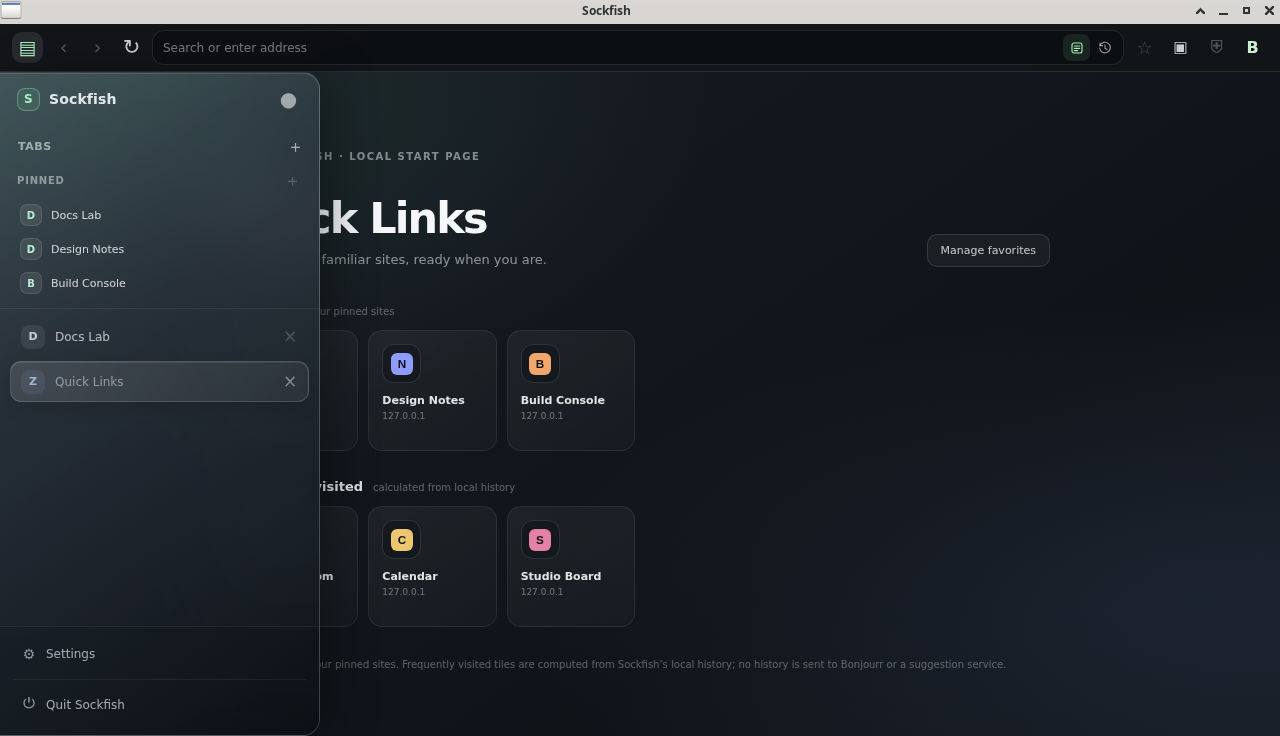
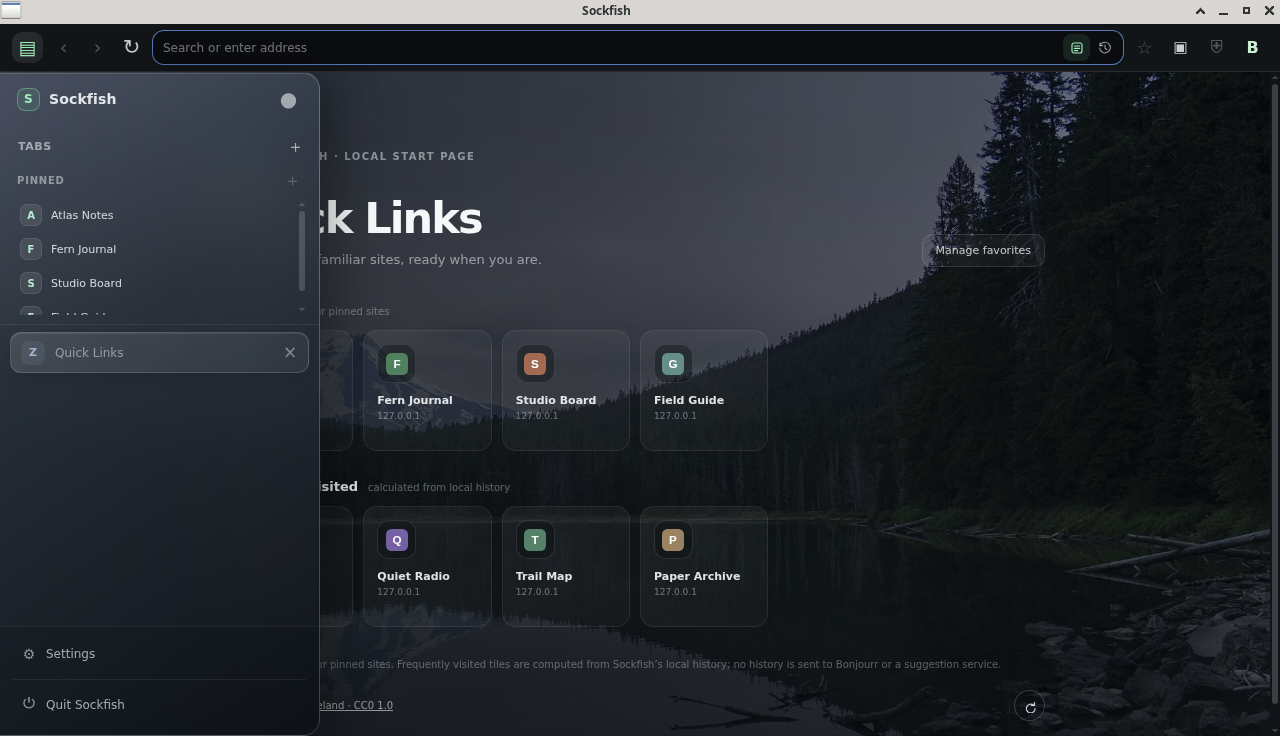
feat: add local rotating Quick Links backgrounds

diff --git a/src/renderer/src/views/Browser.tsx b/src/renderer/src/views/Browser.tsx
@@ -20,10 +20,45 @@ import { DEFAULT_SEARCH_ENGINE, getSearchHomepage, SEARCH_ENGINES, SOCKFISH_QUIC
 import { MAX_PINNED_SITES } from '../../../shared/persistence'
 import { buildAddressSuggestions } from '../../../shared/autocomplete'
 import { buildFrequentSites, toQuickLinkSite, type QuickLinkSite } from '../../../shared/quick-links'
+import {
+  getQuickLinkBackgroundIndex,
+  nextQuickLinkBackgroundIndex,
+  QUICK_LINK_BACKGROUND_ROTATION_MS
+} from '../../../shared/quick-links-backgrounds'
+import forestLake from '../assets/quick-links-backgrounds/forest-lake.webp'
+import mountainLake from '../assets/quick-links-backgrounds/tranquil-mountain-lake.webp'
+import waterfall from '../assets/quick-links-backgrounds/waterfall.webp'
+import lakeMountain from '../assets/quick-links-backgrounds/lake-mountain.webp'
 import './Browser.css'
 
 const DEFAULT_PROXY: BrowserProxySettings = { enabled: true, host: '127.0.0.1', port: 1080 }
 const BONJOURR_START_PAGE = 'https://online.bonjourr.fr/'
+const QUICK_LINK_BACKGROUNDS = [
+  {
+    src: forestLake,
+    title: 'Forest lake',
+    creator: 'Pixel.la Free Stock Photos',
+    sourceUrl: 'https://commons.wikimedia.org/wiki/File:Landscape-nature-forest-lake_(24300004076).jpg'
+  },
+  {
+    src: mountainLake,
+    title: 'Tranquil mountain lake',
+    creator: 'Andrew Spencer',
+    sourceUrl: 'https://commons.wikimedia.org/wiki/File:Tranquil_mountain_lake_(Unsplash).jpg'
+  },
+  {
+    src: waterfall,
+    title: 'Waterfall in Iceland',
+    creator: 'Robert Lukeman',
+    sourceUrl: 'https://commons.wikimedia.org/wiki/File:Idyllic_landscape_with_a_waterfall_(Unsplash).jpg'
+  },
+  {
+    src: lakeMountain,
+    title: 'Lake Mountain Landscape',
+    creator: 'Bonnie Moreland',
+    sourceUrl: 'https://commons.wikimedia.org/wiki/File:Lake_Mountain_Landscape.jpg'
+  }
+] as const
 const EMPTY_BROWSER: BrowserState = {
   url: BONJOURR_START_PAGE,
   title: 'Bonjourr',
@@ -170,6 +205,9 @@ export default function Browser(): React.JSX.Element {
   const [activeSuggestionIndex, setActiveSuggestionIndex] = useState(-1)
   const [searchEngine, setSearchEngine] = useState<SearchEngineId>(DEFAULT_SEARCH_ENGINE)
   const [newTabPage, setNewTabPage] = useState<NewTabPageId>('quick-links')
+  const [quickLinksBackgroundIndex, setQuickLinksBackgroundIndex] = useState(
+    () => getQuickLinkBackgroundIndex(Date.now(), QUICK_LINK_BACKGROUNDS.length)
+  )
   const [tabSleepMinutes, setTabSleepMinutes] = useState<TabSleepMinutes>(30)
   const [searchEngineLoaded, setSearchEngineLoaded] = useState(false)
   const [newTabMenuOpen, setNewTabMenuOpen] = useState(false)
@@ -193,6 +231,12 @@ export default function Browser(): React.JSX.Element {
   const [proxyMessage, setProxyMessage] = useState('')
   const [navigationError, setNavigationError] = useState('')
   const [proxyMessageIsError, setProxyMessageIsError] = useState(false)
+  useEffect(() => {
+    const rotationTimer = window.setInterval(() => {
+      setQuickLinksBackgroundIndex((index) => nextQuickLinkBackgroundIndex(index, QUICK_LINK_BACKGROUNDS.length))
+    }, QUICK_LINK_BACKGROUND_ROTATION_MS)
+    return () => window.clearInterval(rotationTimer)
+  }, [])
   const sidebarVisible = sidebarPinned || sidebarHovered || sidebarFocused || sidebarMode !== 'tabs'
   const addressSuggestions = useMemo(
     () => buildAddressSuggestions(address, pinnedSites, tabs, history),
@@ -201,6 +245,7 @@ export default function Browser(): React.JSX.Element {
   const favoriteQuickLinks = useMemo(() => pinnedSites.map(toQuickLinkSite).filter((site): site is QuickLinkSite => site !== null), [pinnedSites])
   const frequentQuickLinks = useMemo(() => buildFrequentSites(history, pinnedSites), [history, pinnedSites])
   const isQuickLinksTab = browser.url === SOCKFISH_QUICK_LINKS_URL
+  const quickLinksBackground = QUICK_LINK_BACKGROUNDS[quickLinksBackgroundIndex] ?? QUICK_LINK_BACKGROUNDS[0]!
   const activeOrigin = httpOrigin(browser.url)
   const currentOriginIsPinned = Boolean(activeOrigin && pinnedSites.some((site) => httpOrigin(site.url) === activeOrigin))
 
@@ -956,6 +1001,12 @@ export default function Browser(): React.JSX.Element {
           {sidebarMode === 'tabs' && !sidebarVisible && <div className="sidebar-reveal-edge" aria-hidden="true" onMouseEnter={revealSidebar} onMouseMove={revealSidebar} onMouseLeave={scheduleSidebarHide} />}
           {isQuickLinksTab && !SETTINGS_SECTIONS.some((section) => section.mode === sidebarMode) && (
             <section className="quick-links-page" aria-label="Sockfish Quick Links start page">
+              <div
+                key={quickLinksBackground.title}
+                className="quick-links-backdrop"
+                aria-hidden="true"
+                style={{ backgroundImage: `url("${quickLinksBackground.src}")` }}
+              />
               <div className="quick-links-content">
                 <div className="quick-links-eyebrow"><span className="quick-links-brand" aria-hidden="true">S</span><span>SOCKFISH · LOCAL START PAGE</span></div>
                 <header className="quick-links-header">
@@ -975,6 +1026,23 @@ export default function Browser(): React.JSX.Element {
                   ) : <p className="quick-links-empty">Sites you visit often will appear here. This list stays on this device.</p>}
                 </section>
                 <p className="quick-links-privacy">Favorites reuse your pinned sites. Frequently visited tiles are computed from Sockfish’s local history; no history is sent to Bonjourr or a suggestion service.</p>
+                <footer className="quick-links-background-footer">
+                  <a className="quick-links-photo-credit" href={quickLinksBackground.sourceUrl} target="_blank" rel="noreferrer">
+                    Photo: {quickLinksBackground.creator} · CC0 1.0
+                  </a>
+                  <button
+                    className="quick-links-next-background"
+                    type="button"
+                    title="Next background"
+                    aria-label="Show next background"
+                    onClick={() => setQuickLinksBackgroundIndex((index) => nextQuickLinkBackgroundIndex(index, QUICK_LINK_BACKGROUNDS.length))}
+                  >
+                    <svg viewBox="0 0 24 24" fill="none" stroke="currentColor" strokeWidth="1.8" strokeLinecap="round" strokeLinejoin="round" aria-hidden="true">
+                      <path d="M20 7v5h-5" />
+                      <path d="M19 12a7 7 0 1 0 2 4.9" />
+                    </svg>
+                  </button>
+                </footer>
               </div>
             </section>
           )}

diff --git a/src/renderer/src/views/Browser.css b/src/renderer/src/views/Browser.css
@@ -1890,20 +1890,45 @@
 
 /* Local start page: favorites are existing pins; frequent tiles are derived from local history. */
 .quick-links-page {
+  position: relative;
+  isolation: isolate;
   width: 100%;
   height: 100%;
   min-height: 0;
   overflow: auto;
   padding: clamp(28px, 6vw, 72px) clamp(20px, 6vw, 76px) 36px;
-  background:
-    radial-gradient(ellipse at 12% 5%, rgba(91, 173, 139, 0.14), transparent 35%),
-    radial-gradient(ellipse at 94% 80%, rgba(94, 125, 184, 0.12), transparent 40%),
-    linear-gradient(145deg, #171c22, #101419 68%, #14191f);
+  background: #101419;
   color: #f2f4f6;
   scrollbar-color: rgba(255, 255, 255, 0.18) transparent;
   scrollbar-width: thin;
 }
+.quick-links-page::before {
+  position: absolute;
+  z-index: -1;
+  inset: 0;
+  background:
+    linear-gradient(90deg, rgba(9, 13, 17, 0.82) 0%, rgba(9, 13, 17, 0.69) 46%, rgba(9, 13, 17, 0.43) 100%),
+    linear-gradient(0deg, rgba(9, 13, 17, 0.58) 0%, rgba(9, 13, 17, 0.08) 75%);
+  content: '';
+  pointer-events: none;
+}
+.quick-links-backdrop {
+  position: absolute;
+  z-index: -2;
+  inset: 0;
+  background-position: center;
+  background-repeat: no-repeat;
+  background-size: cover;
+  animation: quick-links-background-in 900ms ease-out both;
+  pointer-events: none;
+}
+@keyframes quick-links-background-in {
+  from { opacity: 0.55; }
+  to { opacity: 1; }
+}
 .quick-links-content {
+  position: relative;
+  z-index: 1;
   width: min(100%, 820px);
   margin: 0 auto;
 }
@@ -2064,6 +2089,47 @@
   font-size: 10px;
   line-height: 1.5;
 }
+.quick-links-background-footer {
+  display: flex;
+  align-items: center;
+  justify-content: space-between;
+  gap: 14px;
+  margin-top: 18px;
+}
+.quick-links-photo-credit {
+  overflow: hidden;
+  color: rgba(245, 247, 250, 0.57);
+  font-size: 10px;
+  text-overflow: ellipsis;
+  white-space: nowrap;
+}
+.quick-links-photo-credit:hover,
+.quick-links-photo-credit:focus-visible {
+  color: rgba(245, 247, 250, 0.88);
+}
+.quick-links-next-background {
+  display: inline-grid;
+  flex: 0 0 auto;
+  width: 31px;
+  height: 31px;
+  place-items: center;
+  border: 1px solid rgba(255, 255, 255, 0.18);
+  border-radius: 50%;
+  background: rgba(9, 13, 17, 0.42);
+  color: rgba(245, 247, 250, 0.84);
+  cursor: pointer;
+}
+.quick-links-next-background:hover,
+.quick-links-next-background:focus-visible {
+  border-color: rgba(126, 226, 168, 0.5);
+  background: rgba(9, 13, 17, 0.68);
+  color: #fff;
+  outline: 0;
+}
+.quick-links-next-background svg {
+  width: 15px;
+  height: 15px;
+}
 @media (max-width: 620px) {
   .quick-links-header {
     align-items: flex-start;
@@ -2081,10 +2147,16 @@
     min-height: 112px;
     padding: 11px;
   }
+  .quick-links-background-footer {
+    gap: 8px;
+  }
 }
 @media (prefers-reduced-motion: reduce) {
   .omnibox-action-button,
   .quick-link-tile {
     transition-duration: 0.01ms;
+  }
+  .quick-links-backdrop {
+    animation: none;
   }
 }

diff --git a/src/shared/quick-links-backgrounds.test.ts b/src/shared/quick-links-backgrounds.test.ts
@@ -1,0 +1,30 @@
+import test from 'node:test'
+import assert from 'node:assert/strict'
+import {
+  getQuickLinkBackgroundIndex,
+  nextQuickLinkBackgroundIndex,
+  QUICK_LINK_BACKGROUND_ROTATION_MS
+} from './quick-links-backgrounds.ts'
+
+test('rotates one locally bundled background every fifteen-minute slot and wraps', () => {
+  const rotation = QUICK_LINK_BACKGROUND_ROTATION_MS
+  assert.equal(getQuickLinkBackgroundIndex(0, 4), 0)
+  assert.equal(getQuickLinkBackgroundIndex(rotation - 1, 4), 0)
+  assert.equal(getQuickLinkBackgroundIndex(rotation, 4), 1)
+  assert.equal(getQuickLinkBackgroundIndex(rotation * 3, 4), 3)
+  assert.equal(getQuickLinkBackgroundIndex(rotation * 4, 4), 0)
+})
+
+test('manual next-background navigation wraps and normalizes its index', () => {
+  assert.equal(nextQuickLinkBackgroundIndex(0, 4), 1)
+  assert.equal(nextQuickLinkBackgroundIndex(3, 4), 0)
+  assert.equal(nextQuickLinkBackgroundIndex(-1, 4), 0)
+  assert.equal(nextQuickLinkBackgroundIndex(Number.NaN, 4), 1)
+})
+
+test('invalid time or image counts safely select the first background', () => {
+  assert.equal(getQuickLinkBackgroundIndex(Number.NaN, 4), 0)
+  assert.equal(getQuickLinkBackgroundIndex(0, 0), 0)
+  assert.equal(getQuickLinkBackgroundIndex(0, -1), 0)
+  assert.equal(nextQuickLinkBackgroundIndex(0, 0), 0)
+})

diff --git a/src/shared/quick-links-backgrounds.ts b/src/shared/quick-links-backgrounds.ts
@@ -1,0 +1,14 @@
+export const QUICK_LINK_BACKGROUND_ROTATION_MS = 15 * 60 * 1000
+
+export function getQuickLinkBackgroundIndex(timestampMs: number, imageCount: number): number {
+  if (!Number.isFinite(timestampMs) || !Number.isInteger(imageCount) || imageCount < 1) return 0
+  const rotationSlot = Math.floor(timestampMs / QUICK_LINK_BACKGROUND_ROTATION_MS)
+  return ((rotationSlot % imageCount) + imageCount) % imageCount
+}
+
+export function nextQuickLinkBackgroundIndex(currentIndex: number, imageCount: number): number {
+  if (!Number.isInteger(imageCount) || imageCount < 1) return 0
+  const current = Number.isInteger(currentIndex) ? currentIndex : 0
+  const normalized = ((current % imageCount) + imageCount) % imageCount
+  return (normalized + 1) % imageCount
+}

diff --git a/docs/browser-ui-overhaul.md b/docs/browser-ui-overhaul.md
@@ -7,6 +7,7 @@ Fresh profiles use a direct connection by default so the start page loads withou
 ## New tabs, pins, and address suggestions
 
 - Fresh profiles open the browser-owned **Sockfish Quick Links** page in new tabs. It is rendered in the app UI rather than loading history into a remote start page. **Settings → General → New tab page** also offers [Bonjourr's hosted start page](https://online.bonjourr.fr/) and the selected search engine.
+- Quick Links rotates among four locally bundled **CC0 nature-photo backgrounds** every 15 minutes; the accessible **Next background** button skips to the next scene. The visible photo credit links to its source. This rotation is offline and never contacts an image service; the background asset sources and license records are listed in [quick-links-backgrounds.md](quick-links-backgrounds.md).
 - Favorite (star) saves the current website's HTTP(S) origin as a local pinned site. Pins appear at the top of the sidebar, open in the current tab, and can be removed with a right-click; pins are also offered in the address suggestions.
 - Quick Links **Favorites** are the same pinned sites, not a second bookmark list. The **Frequently visited** tiles aggregate locally stored Sockfish history by origin, exclude pinned origins, and show up to eight sites. Clearing history removes the derived frequent list; pinning/unpinning controls the Favorites list.
 - Bonjourr's Quick Links extension can import browser bookmark groups and, where browser APIs permit, Most Visited links; its documented default favicon mode uses Bonjourr's favicon-fetcher service ([official Quick Links docs](https://bonjourr.fr/docs/widgets/quick-links/)). Sockfish does not install that extension or expose browser bookmark import APIs in its hosted-page integration. This local Quick Links page is a simpler native alternative: each visible tile requests only its own site's `/favicon.ico` with `no-referrer`, and uses an initial-letter fallback if unavailable. It does not send history to Bonjourr or a favicon service.
@@ -38,7 +39,8 @@ Native macOS Touch ID for arbitrary website passkeys depends on Apple's managed 
 
 Real app screenshots (Linux Electron build; synthetic local sites/history, not mockups):
 
-- ![Sockfish Quick Links New Tab](screenshots/quick-links-new-tab.png)
+- ![Sockfish Quick Links New Tab with a local scenic background](screenshots/quick-links-new-tab.png)
+- ![Sockfish Quick Links after rotating to another local scenic background](screenshots/quick-links-background-rotation.png)
 - ![Tabs sidebar with local pins and open tabs](screenshots/tabs-sidebar.png)
 - ![History sidebar with synthetic local history](screenshots/history-sidebar.png)
 
@@ -54,7 +56,7 @@ bun run build
 
 Manual smoke checklist:
 
-1. Launch with a clean profile and confirm a new tab opens local Quick Links; verify Favorites reuse pins, Frequent tiles are derived from local history, and favicons either load from the site origin or fall back to a letter. Switch to Bonjourr or Search engine and verify the next tab uses that choice.
+1. Launch with a clean profile and confirm a new tab opens local Quick Links; verify Favorites reuse pins, Frequent tiles are derived from local history, and favicons either load from the site origin or fall back to a letter. Click **Next background**, check the credit changes, and verify no image-service request is made. Switch to Bonjourr or Search engine and verify the next tab uses that choice.
 2. Open a foreground and background tab; verify both begin loading immediately. Restart with several tabs and verify the selected tab loads automatically while inactive restored tabs load when selected.
 3. Confirm an audible/background media tab continues playing and is not hibernated while audible.
 4. Use the address-field Tabs and History icons; verify their accessible names/tooltips, keyboard focus, sidebar contents, hover reveal, and pin/unpin behavior. Open Settings from the sidebar footer.

diff --git a/README.md b/README.md
@@ -2,6 +2,8 @@
 
 Sockfish is a compact Electron browser with isolated Chromium tabs, a vertical glass sidebar, local browsing history, network-only ad blocking, an optional local SOCKS5 proxy, and a tested Bramble extension integration for a password-fill flow.
 
+![Sockfish live app with a scenic Quick Links background, favorites, and frequently visited sites](docs/screenshots/quick-links-new-tab.png)
+
 ## Quick start
 
 ```bash
@@ -16,11 +18,9 @@ bun run build
 
 Enter a web address or search phrase in the slim address bar. Local suggestions come from pinned sites, open tabs, and history; queries are not sent to a remote suggestion service. Choose Brave Search (the default), DuckDuckGo, Google, or Bing from **Settings → General**. Domain-like addresses open over HTTPS by default; `localhost` and loopback addresses use HTTP. Only HTTP(S) pages can be opened.
 
-Fresh profiles open Sockfish's **Quick Links** page in new tabs. Favorites are the same locally stored pinned sites shown in the sidebar; **Frequently visited** is calculated from local history (up to eight unpinned origins). History is not sent to a suggestion service or Bonjourr. Favicons are requested directly from each tile's own `/favicon.ico` with no referrer, and fall back to a letter if unavailable. Pin the current page with ☆; use the sidebar to remove a pin. In **Settings → General → New tab page**, switch future tabs to [Bonjourr's hosted start page](https://online.bonjourr.fr/) or the selected search engine. Bonjourr's extension-only bookmark/Most Visited import is not available in Sockfish's hosted-page integration.
+Fresh profiles open Sockfish's **Quick Links** page in new tabs. It rotates through four locally bundled CC0 nature photos every 15 minutes; use **Next background** to skip immediately. Photo credits link to their sources, and rotation makes no photo-service requests. Favorites are the same locally stored pinned sites shown in the sidebar; **Frequently visited** is calculated from local history (up to eight unpinned origins). History is not sent to a suggestion service or Bonjourr. Favicons are requested directly from each tile's own `/favicon.ico` with no referrer, and fall back to a letter if unavailable. Pin the current page with ☆; use the sidebar to remove a pin. In **Settings → General → New tab page**, switch future tabs to [Bonjourr's hosted start page](https://online.bonjourr.fr/) or the selected search engine. Bonjourr's extension-only bookmark/Most Visited import is not available in Sockfish's hosted-page integration. See the [background photo credits and source notes](docs/quick-links-backgrounds.md).
 
-The live app screenshots below use synthetic local demo sites and data; they are not mockups.
-
-![Sockfish Quick Links New Tab with local favorites and frequently visited tiles](docs/screenshots/quick-links-new-tab.png)
+Project screenshots use genuine live Linux Electron app windows with synthetic demo sites and data; they are not mockups. See the [browser UI guide](docs/browser-ui-overhaul.md) for Tabs and History screenshots and platform limitations.
 
 ## Tabs, sidebar, and history
 

diff --git a/docs/quick-links-backgrounds.md b/docs/quick-links-backgrounds.md
@@ -1,0 +1,16 @@
+# Quick Links background photos
+
+Sockfish bundles four landscape images locally and rotates among them in the Quick Links page. The files are WebP re-encodings of 1920-pixel Wikimedia Commons thumbnails; each listed source file is identified by Commons as **CC0 1.0**. Credits are shown in the app when the corresponding background is active. The CC0 deed permits copying, modification, and redistribution without attribution; credits are retained as good practice.
+
+| Bundled file | Photo / creator | Original source | License record |
+| --- | --- | --- | --- |
+| `forest-lake.webp` | “Landscape-nature-forest-lake” — www.Pixel.la Free Stock Photos | [Flickr photo 24300004076](https://www.flickr.com/photos/137643065@N06/24300004076/) | [Wikimedia Commons file page](https://commons.wikimedia.org/wiki/File:Landscape-nature-forest-lake_(24300004076).jpg) · [CC0 1.0](https://creativecommons.org/publicdomain/zero/1.0/) |
+| `tranquil-mountain-lake.webp` | “Tranquil mountain lake” — Andrew Spencer | [Unsplash photo g1GfGwh1FOg](https://unsplash.com/photos/g1GfGwh1FOg) | [Wikimedia Commons file page](https://commons.wikimedia.org/wiki/File:Tranquil_mountain_lake_(Unsplash).jpg) · [CC0 1.0](https://creativecommons.org/publicdomain/zero/1.0/) (the Commons record notes publication under CC0 before 5 June 2017) |
+| `waterfall.webp` | “Idyllic landscape with a waterfall” — Robert Lukeman | [Unsplash photo zNN6ubHmruI](https://unsplash.com/photos/zNN6ubHmruI) | [Wikimedia Commons file page](https://commons.wikimedia.org/wiki/File:Idyllic_landscape_with_a_waterfall_(Unsplash).jpg) · [CC0 1.0](https://creativecommons.org/publicdomain/zero/1.0/) (the Commons record notes publication under CC0 before 5 June 2017) |
+| `lake-mountain.webp` | “Lake Mountain Landscape” — Bonnie Moreland | [ISO Republic source page](https://isorepublic.com/photo/lake-mountain-landscape/) | [Wikimedia Commons file page](https://commons.wikimedia.org/wiki/File:Lake_Mountain_Landscape.jpg) · [CC0 1.0](https://creativecommons.org/publicdomain/zero/1.0/) |
+
+## Bonjourr comparison
+
+[Bonjourr's official background documentation](https://bonjourr.fr/docs/customisation/backgrounds/) says its “Bonjourr Daylight” option uses the Unsplash API and four curated collections that vary by time of day; it also documents local files, remote URLs, Unsplash collections/search, and manual skip. Its [quick guide](https://bonjourr.fr/docs/quick-guide/) points users to Local files for personal backgrounds.
+
+Sockfish keeps Bonjourr available as a selectable New Tab page. The built-in Quick Links page uses the locally packaged CC0 files instead: rotation works offline, makes no image-service requests, and does not send browsing history to Bonjourr or an image host.
